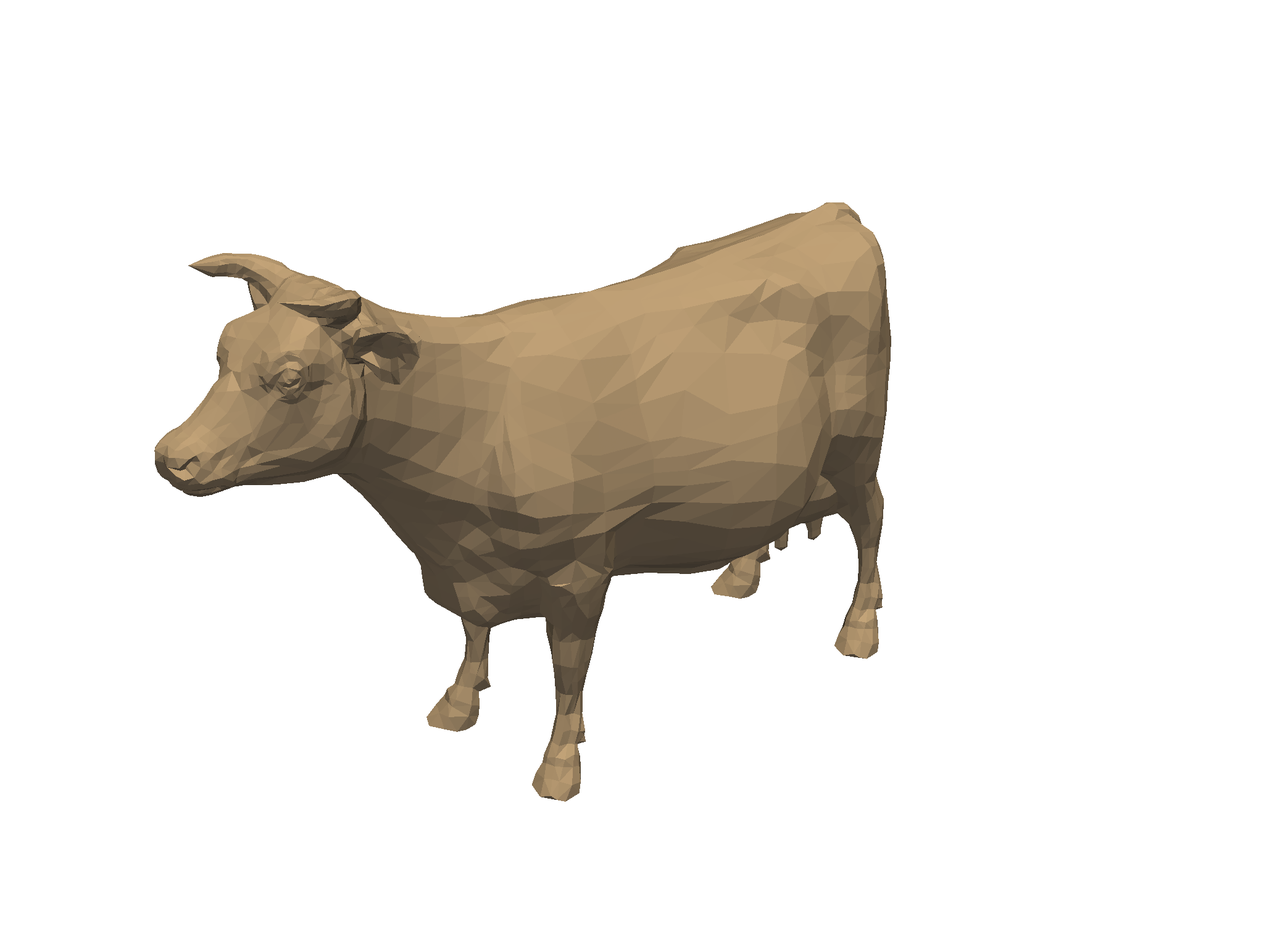
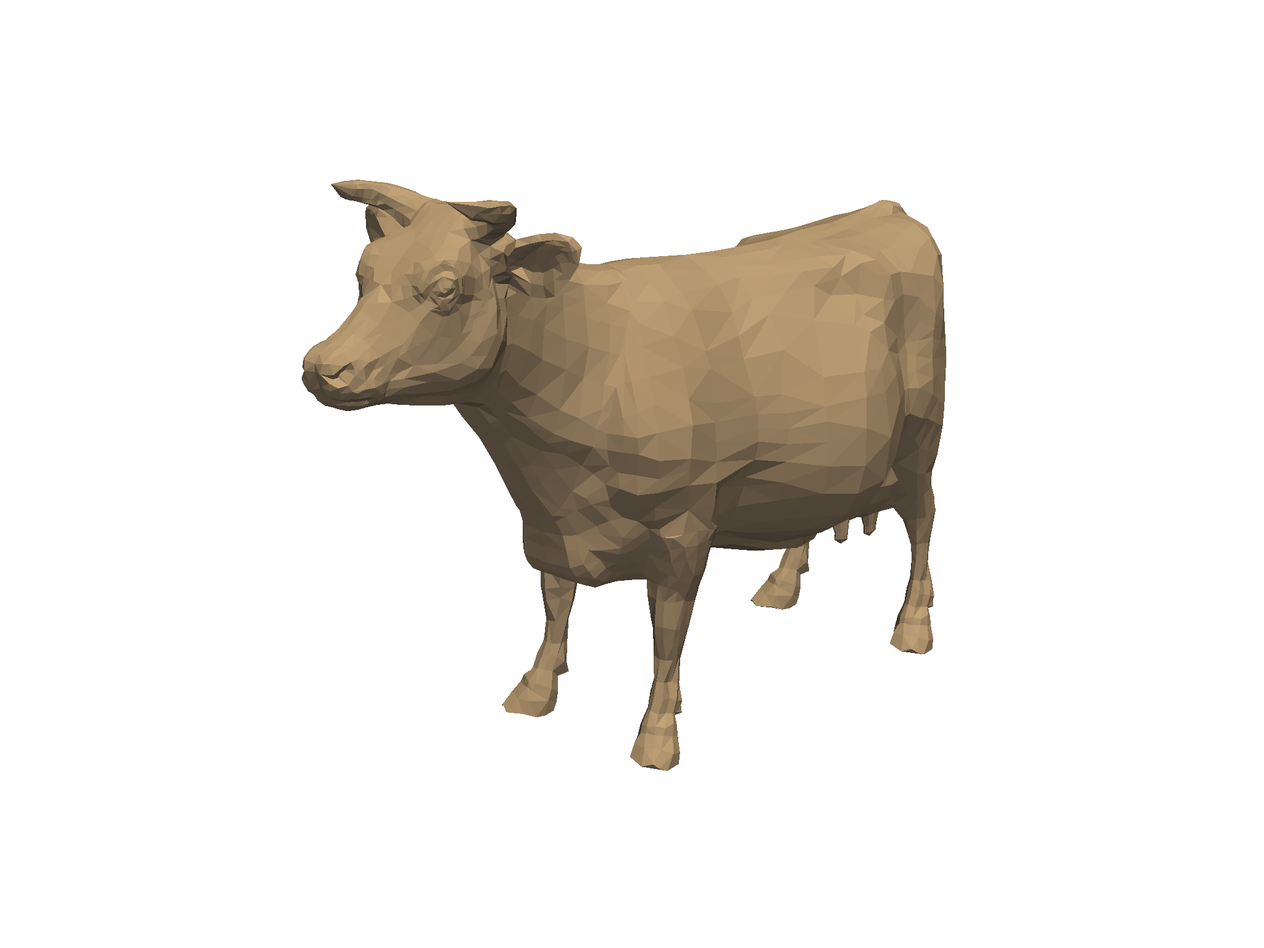
Update docs after building Travis build 61 of pyvista/tetgen
The docs were built from the branch 'master' against the commit
4739cd3a2432b03546410a680a1c71abc6f82733.

The Travis build that generated this commit is at
https://travis-ci.org/pyvista/tetgen/jobs/536984153.

The doctr command that was run is

    /home/travis/virtualenv/python3.6.7/bin/doctr deploy --built-docs ./docs/_build/html/ .

Changed region(s): [[0.125, 0.1875, 0.75, 0.8438]]

diff --git a/searchindex.js b/searchindex.js
@@ -1,1 +1,1 @@
-Search.setIndex({docnames:["api","examples/cow","examples/index","examples/sg_execution_times","examples/sphere","examples/super_toroid","index"],envversion:{"sphinx.domains.c":1,"sphinx.domains.changeset":1,"sphinx.domains.cpp":1,"sphinx.domains.javascript":1,"sphinx.domains.math":2,"sphinx.domains.python":1,"sphinx.domains.rst":1,"sphinx.domains.std":1,sphinx:56},filenames:["api.rst","examples/cow.rst","examples/index.rst","examples/sg_execution_times.rst","examples/sphere.rst","examples/super_toroid.rst","index.rst"],objects:{"tetgen.TetGen":{grid:[0,1,1,""],make_manifold:[0,2,1,""],mesh:[0,1,1,""],plot:[0,2,1,""],tetrahedralize:[0,2,1,""],write:[0,2,1,""]},tetgen:{TetGen:[0,0,1,""],pytetgen:[0,3,0,"-"]}},objnames:{"0":["py","class","Python class"],"1":["py","attribute","Python attribute"],"2":["py","method","Python method"],"3":["py","module","Python module"]},objtypes:{"0":"py:class","1":"py:attribute","2":"py:method","3":"py:module"},terms:{"10y":0,"class":0,"default":0,"final":0,"function":0,"import":[1,4,5,6],"int":0,"return":0,"super":[2,3],"switch":0,"true":[0,1,4,5,6],"try":[4,5],"while":0,For:6,The:[0,6],There:0,These:0,about:0,adapt:6,add_legend:[4,5,6],add_mesh:[1,4,5,6],added:0,addit:0,addsteiner_algo:0,advanc:[4,5,6],all:0,allow:0,along:6,alreadi:0,angl:0,ani:6,anim:1,ansi:0,apdl:0,appear:0,appli:0,archiv:0,arg:0,argument:0,arithmet:0,arrai:0,ascii:0,assign:0,attribut:0,avail:0,avoid:0,base:[0,6],behavior:0,belong:0,below:[4,5,6],between:0,binari:0,black:[4,5,6],bool:0,boundari:[0,6],brief:[0,6],brio_hilbert:0,brio_ratio:0,brio_threshold:0,bwr:[4,5,6],camera_posit:1,can:[0,6],caus:0,cdb:0,cdtrefin:0,cell:[4,5,6],cell_cent:[4,5,6],cell_ind:[4,5,6],cell_qual:[4,5,6],centroid:[4,5,6],chang:0,check:0,clean:0,click:[1,4,5],clone:6,close:[0,1],closer:0,cmap:[4,5,6],coarsen:0,coarsen_param:0,coarsen_perc:0,code:[0,1,4,5],color:1,com:6,combin:[0,6],complex:0,configur:0,conform:[0,6],consid:0,consist:0,consol:0,constrain:6,constraint:0,construct:1,contain:0,control:0,convex:0,coplanar:0,cow:[2,3],cow_grid:1,cow_mesh:1,cpo:1,creat:[0,6],creator:6,debug:0,deg:1,degre:0,delaunai:[0,6],delmaxfliplevel:0,demonstr:6,describ:0,descript:6,descritpion:0,desir:0,detail:[0,6],detect:0,diagnos:0,diagram:0,differ:0,dihedr:0,disabl:0,disk:0,displai:0,docheck:0,document:0,doe:0,domain:6,doubl:0,download:[1,4,5],download_cow:1,eas:6,edg:0,edgesout:0,either:0,ele:0,elem:0,element:[0,6],enabl:0,epsilon:0,error:0,exact:[0,6],exampl:[0,1,3,4,5],exceed:0,except:[0,4,5],execut:3,extens:0,extract:[4,5,6],extract_cel:[4,5,6],extract_selection_point:1,face:0,facesout:0,facet:0,facet_overlap_ang_tol:0,facet_separate_ang_tol:0,facet_small_ang_tol:0,fail:0,fals:0,faster:0,featur:6,file:[0,3],filenam:0,finit:6,first:0,fixedvolum:0,flip_scalar:[4,5,6],flipinsert:0,fliplinklevel:0,fliplinklevelinc:0,flipstars:0,focus:6,from:[0,1,6],full:[1,4,5],galleri:[1,2,4,5],gener:[0,1,2,4,5,6],get:[4,5,6],gif:1,git:6,github:6,good:6,greater:0,grid:[0,1,4,5,6],half:1,half_cow:1,hang:[0,6],has:0,hedral:0,help:0,here:[1,4,5],high:0,higher:0,hilbert_limit:0,hilbert_ord:0,how:6,http:6,hull:0,ignor:0,implement:[0,6],improv:0,incrflip:0,inform:[0,6],initi:0,input:[0,4,5,6],insertaddpoint:0,institut:6,instruct:0,integr:6,interfac:[0,6],interior:0,intersect:0,ipynb:[1,4,5],ipython:0,item:0,iter:0,januari:6,jettison:0,jupyt:[1,4,5],kwarg:0,larger:0,last:6,legaci:0,level:0,librari:0,light:[4,5,6],lightgrei:[4,5,6],like:0,linear:0,list:6,load:0,logical_or:1,look:6,lower:0,mai:0,make_manifold:[0,1],mandatori:0,mani:0,manifold:[0,6],manner:0,mask:[1,4,5,6],maximum:0,maxvolum:0,mean:[4,5,6],medit:0,meditview:0,merg:0,mesh:[0,1,4,5,6],method:6,metric:0,mindihedr:[0,4,5,6],minimum:0,minratio:[0,4,5,6],minut:[1,4,5],modifi:0,modul:[0,6],more:[0,6],much:0,must:0,narrow:0,ndarrai:0,necessari:0,neigh:0,neighbor:0,neighout:0,nframe:1,no_sort:0,nobisect:0,nobisect_nomerg:0,nobound:0,node:0,noelewritten:0,noexact:0,nofacewritten:0,noiterationnum:0,nojettison:0,nomergefacet:0,nomergevertex:0,nonodewritten:0,nonzero:[4,5,6],nostaticfilt:0,note:0,notebook:[1,4,5],number:0,numer:6,numpi:[1,4,5,6],nx3:0,object:0,obtain:6,off_screen:1,one:0,onli:0,opac:1,open_gif:1,optim:0,optimi:0,optin:0,option:0,optlevel:0,optmaxdihedr:0,optminslidih:0,optminsmtdih:0,optschem:0,order:[0,4,5,6],origin:[0,6],other:0,otherwis:0,output:0,over:0,overlap:0,overli:0,page:6,paramet:0,paraview:0,part:6,partit:6,pass:[4,5],piecewis:0,pip:6,place:0,plane:[4,5,6],plc:0,pleas:6,plot:[0,1,4,5,6],plotter:[1,4,5,6],point:[0,1,4,5,6],polydata:0,polyhedr:6,portabl:6,portion:6,pq1:0,preserv:0,primarili:6,print:0,program:[0,6],provid:6,psc:0,publish:6,pymeshfix:[0,1],pypi:6,python:[0,1,4,5,6],pyvista:[0,1,4,5,6],quadrad:0,qualiti:[0,4,5,6],quiet:0,radiu:0,rais:0,rang:1,rather:0,ratio:0,readabl:0,real:0,reason:0,reconstruct:0,reduc:0,refin:0,reflevel:0,region:0,regionattrib:0,regular:0,relationship:0,relev:6,remain:6,requir:0,reshap:[4,5,6],restrict:0,result:0,retain:0,reversetetori:0,rotate_i:1,run:[1,4,5],sacrif:0,same:0,scalar:[4,5,6],script:[1,4,5],second:[0,1,4,5],see:[0,6],select:0,self:0,set:0,set_background:6,shape:0,shellfaceperblock:0,should:0,show:[0,1],show_edg:1,shown:0,silli:1,size:0,softwar:6,some:0,sourc:[1,4,5,6],specifi:0,speed:[0,6],sphere:[2,3,6],sphinx:[1,2,4,5],sphinx_gallery_thumbnail_numb:[1,4,5],spin:1,standalon:0,start:0,steiner:0,steinerleft:0,stitl:[4,5,6],str:0,string:0,style:1,subgrid:[4,5,6],suitabl:6,super_toroid:[3,5],supertoroid:5,suppress:0,supsteiner_level:0,sure:0,surfac:[0,5,6],system:0,take:6,termin:0,tessel:[4,5,6],test:0,tet:[1,4,5,6],tetgen:[0,1,4,5],tetra:0,tetrahedr:[0,1,4,5,6],tetrahedra:0,tetrahedraperblock:0,tetrahedron:0,tetrehedr:0,text:0,than:0,thei:0,thi:[0,6],threshold:0,time:[1,4,5],todai:6,toler:0,toolkit:6,toroid:[2,3],total:[1,3,4,5],tri_filt:1,triangul:0,triangular:6,type:0,underli:0,unlimit:0,unreach:0,unstructur:0,unstructuredgrid:0,unus:0,updat:[0,1,6],use:0,used:0,user:[0,6],uses:0,using:0,valid:0,variou:6,varvolum:0,verbos:0,veri:0,vertex:0,vertexperblock:0,vertic:0,view:0,visual:6,volum:[0,6],voronoi:[0,6],voroout:0,vtk:[0,6],vtkview:0,vtu:0,weierstrass:6,weight:0,weighted_param:0,well:0,when:0,whether:0,which:0,window_s:1,wirefram:[1,4,5,6],wish:0,work:6,wrap:0,write:0,write_fram:1,writer:0,written:0,xml:0,your:0,zero:0,zeroindex:0},titles:["API Reference","Cow","Examples","Computation times","Sphere","Super Toroid","tetgen"],titleterms:{"super":5,acknowledg:6,api:0,basic:6,comput:3,cow:1,exampl:[2,6],instal:6,refer:0,sphere:4,tetgen:6,time:3,toroid:5}})
+Search.setIndex({docnames:["api","examples/cow","examples/index","examples/sg_execution_times","examples/sphere","examples/super_toroid","index"],envversion:{"sphinx.domains.c":1,"sphinx.domains.changeset":1,"sphinx.domains.cpp":1,"sphinx.domains.javascript":1,"sphinx.domains.math":2,"sphinx.domains.python":1,"sphinx.domains.rst":1,"sphinx.domains.std":1,sphinx:56},filenames:["api.rst","examples/cow.rst","examples/index.rst","examples/sg_execution_times.rst","examples/sphere.rst","examples/super_toroid.rst","index.rst"],objects:{"tetgen.TetGen":{grid:[0,1,1,""],make_manifold:[0,2,1,""],mesh:[0,1,1,""],plot:[0,2,1,""],tetrahedralize:[0,2,1,""],write:[0,2,1,""]},tetgen:{TetGen:[0,0,1,""],pytetgen:[0,3,0,"-"]}},objnames:{"0":["py","class","Python class"],"1":["py","attribute","Python attribute"],"2":["py","method","Python method"],"3":["py","module","Python module"]},objtypes:{"0":"py:class","1":"py:attribute","2":"py:method","3":"py:module"},terms:{"10y":0,"class":0,"default":0,"final":0,"function":0,"import":[1,4,5,6],"int":[0,1],"return":0,"super":[2,3],"switch":0,"true":[0,1,4,5,6],"try":[4,5],"while":0,For:6,The:[0,6],There:0,These:0,about:0,adapt:6,add_legend:[4,5,6],add_mesh:[1,4,5,6],added:0,addit:0,addsteiner_algo:0,advanc:[4,5,6],all:0,allow:0,along:6,alreadi:0,angl:0,ani:6,anim:1,ansi:0,apdl:0,appear:0,appli:0,archiv:0,arg:0,argument:0,arithmet:0,arrai:0,ascii:0,assign:0,attribut:0,avail:0,avoid:0,base:[0,6],behavior:0,belong:0,below:[4,5,6],between:0,binari:0,black:[4,5,6],bool:0,boundari:[0,6],brief:[0,6],brio_hilbert:0,brio_ratio:0,brio_threshold:0,build:1,bwr:[4,5,6],camera_posit:1,can:[0,6],caus:0,cdb:0,cdtrefin:0,cell:[4,5,6],cell_cent:[4,5,6],cell_ind:[4,5,6],cell_qual:[4,5,6],centroid:[4,5,6],chang:0,check:0,clean:0,click:[1,4,5],clone:6,close:[0,1],closer:0,cmap:[4,5,6],coarsen:0,coarsen_param:0,coarsen_perc:0,code:[0,1,4,5],color:1,com:6,combin:[0,6],complex:0,configur:0,conform:[0,6],consid:0,consist:0,consol:0,constrain:6,constraint:0,construct:1,contain:0,control:0,convex:0,coplanar:0,cow:[2,3],cow_grid:1,cow_mesh:1,cpo:1,creat:[0,6],creator:6,debug:0,degre:0,delaunai:[0,6],delmaxfliplevel:0,demonstr:6,describ:0,descript:6,descritpion:0,desir:0,detail:[0,6],detect:0,diagnos:0,diagram:0,differ:0,dihedr:0,disabl:0,disk:0,displai:0,docheck:0,document:0,doe:0,domain:6,doubl:0,download:[1,4,5],download_cow:1,dtype:1,eas:6,edg:0,edgesout:0,either:0,ele:0,elem:0,element:[0,6],enabl:0,epsilon:0,error:0,exact:[0,6],exampl:[0,1,3,4,5],exceed:0,except:[0,4,5],execut:3,extens:0,extract:[4,5,6],extract_cel:[1,4,5,6],extract_selection_point:1,face:0,facesout:0,facet:0,facet_overlap_ang_tol:0,facet_separate_ang_tol:0,facet_small_ang_tol:0,fail:0,fals:0,faster:0,featur:6,file:[0,3],filenam:0,finit:6,first:0,fixedvolum:0,flip_scalar:[4,5,6],flipinsert:0,fliplinklevel:0,fliplinklevelinc:0,flipstars:0,focus:6,from:[0,1,6],full:[1,4,5],galleri:[1,2,4,5],gener:[0,1,2,4,5,6],get:[4,5,6],gif:1,git:6,github:6,good:6,greater:0,grid:[0,1,4,5,6],half:1,half_cow:1,hang:[0,6],has:0,hedral:0,help:0,here:[1,4,5],high:0,higher:0,hilbert_limit:0,hilbert_ord:0,how:6,http:6,hull:0,ignor:0,implement:[0,6],improv:0,incrflip:0,inform:[0,6],initi:0,input:[0,4,5,6],insertaddpoint:0,institut:6,instruct:0,integr:6,interfac:[0,6],interior:0,intersect:0,ipynb:[1,4,5],ipython:0,item:0,iter:0,januari:6,jettison:0,jupyt:[1,4,5],kwarg:0,larger:0,last:6,legaci:0,level:0,librari:0,light:[4,5,6],lightgrei:[4,5,6],like:0,linear:0,linspac:1,list:6,load:0,logical_or:1,look:6,lower:0,mai:0,make:1,make_manifold:[0,1],mandatori:0,mani:0,manifold:[0,6],manner:0,mask:[1,4,5,6],maximum:0,maxvolum:0,mean:[4,5,6],medit:0,meditview:0,merg:0,mesh:[0,1,4,5,6],method:6,metric:0,mindihedr:[0,4,5,6],minimum:0,minratio:[0,4,5,6],minut:[1,4,5],modifi:0,modul:[0,6],more:[0,6],much:0,must:0,n_cell:1,name:1,narrow:0,ndarrai:0,necessari:0,neigh:0,neighbor:0,neighout:0,nframe:1,no_sort:0,nobisect:0,nobisect_nomerg:0,nobound:0,node:0,noelewritten:0,noexact:0,nofacewritten:0,noiterationnum:0,nojettison:0,nomergefacet:0,nomergevertex:0,nonodewritten:0,nonzero:[4,5,6],nostaticfilt:0,note:0,notebook:[1,4,5],number:0,numer:6,numpi:[1,4,5,6],nx3:0,object:0,obtain:6,off_screen:1,one:0,onli:0,opac:1,open_gif:1,optim:0,optimi:0,optin:0,option:0,optlevel:0,optmaxdihedr:0,optminslidih:0,optminsmtdih:0,optschem:0,order:[0,4,5,6],origin:[0,6],other:0,otherwis:0,output:0,over:0,overlap:0,overli:0,page:6,paramet:0,paraview:0,part:6,partit:6,pass:[4,5],piecewis:0,pip:6,place:0,plane:[4,5,6],plc:0,pleas:6,plot:[0,1,4,5,6],plotter:[1,4,5,6],point:[0,1,4,5,6],polydata:0,polyhedr:6,portabl:6,portion:6,pq1:0,preserv:0,primarili:6,print:0,program:[0,6],provid:6,psc:0,publish:6,pymeshfix:[0,1],pypi:6,python:[0,1,4,5,6],pyvista:[0,1,4,5,6],quadrad:0,qualiti:[0,4,5,6],quiet:0,radiu:0,rais:0,rang:1,rather:0,ratio:0,readabl:0,real:0,reason:0,reconstruct:0,reduc:0,refin:0,reflevel:0,region:0,regionattrib:0,regular:0,relationship:0,relev:6,remain:6,requir:0,reshap:[4,5,6],restrict:0,result:0,retain:0,reversetetori:0,run:[1,4,5],sacrif:0,same:0,scalar:[4,5,6],script:[1,4,5],second:[0,1,4,5],see:[0,6],select:0,self:0,set:0,set_background:6,shape:0,shellfaceperblock:0,should:0,show:[0,1],show_edg:1,shown:0,size:0,softwar:6,some:0,sourc:[1,4,5,6],specifi:0,speed:[0,6],sphere:[2,3,6],sphinx:[1,2,4,5],sphinx_gallery_thumbnail_numb:[1,4,5],standalon:0,start:0,steiner:0,steinerleft:0,stitl:[4,5,6],str:0,string:0,style:1,subgrid:[4,5,6],suitabl:6,super_toroid:[3,5],supertoroid:5,suppress:0,supsteiner_level:0,sure:0,surfac:[0,5,6],system:0,take:6,termin:0,tessel:[4,5,6],test:0,tet:[1,4,5,6],tetgen:[0,1,4,5],tetra:0,tetrahedr:[0,1,4,5,6],tetrahedra:0,tetrahedraperblock:0,tetrahedron:0,tetrehedr:0,text:0,than:0,thei:0,thi:[0,6],threshold:0,time:[1,4,5],todai:6,toler:0,toolkit:6,toroid:[2,3],total:[1,3,4,5],tri_filt:1,triangul:0,triangular:6,type:0,underli:0,unlimit:0,unreach:0,unstructur:0,unstructuredgrid:0,unus:0,updat:[0,1,6],use:0,used:0,user:[0,6],uses:0,using:0,valid:0,variou:6,varvolum:0,verbos:0,veri:0,vertex:0,vertexperblock:0,vertic:0,view:0,visual:6,volum:[0,6],voronoi:[0,6],voroout:0,vtk:[0,6],vtkview:0,vtu:0,weierstrass:6,weight:0,weighted_param:0,well:0,when:0,whether:0,which:0,window_s:1,wirefram:[1,4,5,6],wish:0,work:6,wrap:0,write:0,write_fram:1,writer:0,written:0,xml:0,your:0,zero:0,zeroindex:0},titles:["API Reference","Cow","Examples","Computation times","Sphere","Super Toroid","tetgen"],titleterms:{"super":5,acknowledg:6,api:0,basic:6,comput:3,cow:1,exampl:[2,6],instal:6,refer:0,sphere:4,tetgen:6,time:3,toroid:5}})

diff --git a/examples/cow.html b/examples/cow.html
@@ -221,6 +221,10 @@
  <span class="p">(</span><span class="mf">0.44</span><span class="p">,</span> <span class="o">-</span><span class="mf">0.4</span><span class="p">,</span> <span class="o">-</span><span class="mf">0.37</span><span class="p">),</span>
  <span class="p">(</span><span class="o">-</span><span class="mf">0.28</span><span class="p">,</span> <span class="mf">0.9</span><span class="p">,</span> <span class="mf">0.3</span><span class="p">)]</span>
 
+<span class="n">cpos</span><span class="o">=</span><span class="p">[(</span><span class="mf">15.87144235049248</span><span class="p">,</span> <span class="mf">4.879216382405231</span><span class="p">,</span> <span class="o">-</span><span class="mf">12.14248864876951</span><span class="p">),</span>
+ <span class="p">(</span><span class="mf">1.1623113035352375</span><span class="p">,</span> <span class="o">-</span><span class="mf">0.7609060338348953</span><span class="p">,</span> <span class="mf">0.3192320579894903</span><span class="p">),</span>
+ <span class="p">(</span><span class="o">-</span><span class="mf">0.19477922834083672</span><span class="p">,</span> <span class="mf">0.9593375398915212</span><span class="p">,</span> <span class="mf">0.20428542963665386</span><span class="p">)]</span>
+
 <span class="n">cow_mesh</span><span class="o">.</span><span class="n">plot</span><span class="p">(</span><span class="n">cpos</span><span class="o">=</span><span class="n">cpos</span><span class="p">)</span>
 </pre></div>
 </div>
@@ -245,25 +249,25 @@
 </pre></div>
 </div>
 <img alt="../_images/sphx_glr_cow_002.png" class="sphx-glr-single-img" src="../_images/sphx_glr_cow_002.png" />
-<p>Construct silly spinning cow animation</p>
-<div class="highlight-default notranslate"><div class="highlight"><pre><span></span><span class="n">plotter</span> <span class="o">=</span> <span class="n">pv</span><span class="o">.</span><span class="n">Plotter</span><span class="p">(</span><span class="n">off_screen</span><span class="o">=</span><span class="kc">True</span><span class="p">,</span> <span class="n">window_size</span><span class="o">=</span><span class="p">[</span><span class="mi">400</span><span class="p">,</span> <span class="mi">400</span><span class="p">])</span>
+<p>Make animation of the mesh construction</p>
+<div class="highlight-default notranslate"><div class="highlight"><pre><span></span><span class="n">plotter</span> <span class="o">=</span> <span class="n">pv</span><span class="o">.</span><span class="n">Plotter</span><span class="p">(</span><span class="n">off_screen</span><span class="o">=</span><span class="kc">True</span><span class="p">,</span> <span class="n">window_size</span><span class="o">=</span><span class="p">[</span><span class="mi">1000</span><span class="p">,</span> <span class="mi">1000</span><span class="p">])</span>
 <span class="n">plotter</span><span class="o">.</span><span class="n">open_gif</span><span class="p">(</span><span class="s1">&#39;cow.gif&#39;</span><span class="p">)</span>
-<span class="n">plotter</span><span class="o">.</span><span class="n">add_mesh</span><span class="p">(</span><span class="n">half_cow</span><span class="p">,</span> <span class="n">color</span><span class="o">=</span><span class="s1">&#39;w&#39;</span><span class="p">,</span> <span class="n">show_edges</span><span class="o">=</span><span class="kc">True</span><span class="p">)</span>
 <span class="n">plotter</span><span class="o">.</span><span class="n">add_mesh</span><span class="p">(</span><span class="n">cow_grid</span><span class="p">,</span> <span class="n">color</span><span class="o">=</span><span class="s1">&#39;r&#39;</span><span class="p">,</span> <span class="n">style</span><span class="o">=</span><span class="s1">&#39;wireframe&#39;</span><span class="p">,</span> <span class="n">opacity</span><span class="o">=</span><span class="mf">0.2</span><span class="p">)</span>
 <span class="n">plotter</span><span class="o">.</span><span class="n">camera_position</span> <span class="o">=</span> <span class="n">cpos</span>
 <span class="n">plotter</span><span class="o">.</span><span class="n">write_frame</span><span class="p">()</span>
 <span class="n">nframe</span> <span class="o">=</span> <span class="mi">36</span>
-<span class="n">deg</span> <span class="o">=</span> <span class="mf">360.</span><span class="o">/</span><span class="p">(</span><span class="n">nframe</span> <span class="o">+</span> <span class="mi">1</span><span class="p">)</span>
 <span class="k">for</span> <span class="n">i</span> <span class="ow">in</span> <span class="nb">range</span><span class="p">(</span><span class="n">nframe</span><span class="p">):</span>
-    <span class="n">half_cow</span><span class="o">.</span><span class="n">rotate_y</span><span class="p">(</span><span class="n">deg</span><span class="p">)</span>
-    <span class="n">cow_grid</span><span class="o">.</span><span class="n">rotate_y</span><span class="p">(</span><span class="n">deg</span><span class="p">)</span>
+    <span class="n">dn</span> <span class="o">=</span> <span class="n">cow_grid</span><span class="o">.</span><span class="n">n_cells</span> <span class="o">//</span> <span class="n">nframe</span> <span class="o">*</span> <span class="p">(</span><span class="n">i</span> <span class="o">+</span> <span class="mi">1</span><span class="p">)</span>
+    <span class="n">mask</span> <span class="o">=</span> <span class="n">np</span><span class="o">.</span><span class="n">linspace</span><span class="p">(</span><span class="mi">0</span><span class="p">,</span> <span class="n">dn</span><span class="p">,</span> <span class="n">dn</span><span class="p">,</span> <span class="n">dtype</span><span class="o">=</span><span class="nb">int</span><span class="p">)</span>
+    <span class="n">half_cow</span> <span class="o">=</span> <span class="n">cow_grid</span><span class="o">.</span><span class="n">extract_cells</span><span class="p">(</span><span class="n">mask</span><span class="p">)</span>
+    <span class="n">plotter</span><span class="o">.</span><span class="n">add_mesh</span><span class="p">(</span><span class="n">half_cow</span><span class="p">,</span> <span class="n">color</span><span class="o">=</span><span class="s1">&#39;w&#39;</span><span class="p">,</span> <span class="n">show_edges</span><span class="o">=</span><span class="kc">True</span><span class="p">,</span> <span class="n">name</span><span class="o">=</span><span class="s1">&#39;building&#39;</span><span class="p">)</span>
     <span class="n">plotter</span><span class="o">.</span><span class="n">update</span><span class="p">()</span>
     <span class="n">plotter</span><span class="o">.</span><span class="n">write_frame</span><span class="p">()</span>
 <span class="n">plotter</span><span class="o">.</span><span class="n">close</span><span class="p">()</span>
 </pre></div>
 </div>
 <img alt="../_images/sphx_glr_cow_003.png" class="sphx-glr-single-img" src="../_images/sphx_glr_cow_003.png" />
-<p class="sphx-glr-timing"><strong>Total running time of the script:</strong> ( 0 minutes  10.320 seconds)</p>
+<p class="sphx-glr-timing"><strong>Total running time of the script:</strong> ( 0 minutes  18.148 seconds)</p>
 <div class="sphx-glr-footer class sphx-glr-footer-example docutils container" id="sphx-glr-download-examples-cow-py">
 <div class="sphx-glr-download docutils container">
 <p><a class="reference download internal" download="" href="../_downloads/dfe0fc540378a0dc60004cbef7c55c93/cow.py"><code class="xref download docutils literal notranslate"><span class="pre">Download</span> <span class="pre">Python</span> <span class="pre">source</span> <span class="pre">code:</span> <span class="pre">cow.py</span></code></a></p>

diff --git a/examples/sg_execution_times.html b/examples/sg_execution_times.html
@@ -193,11 +193,11 @@
             
   <div class="section" id="computation-times">
 <span id="sphx-glr-examples-sg-execution-times"></span><h1>Computation times<a class="headerlink" href="#computation-times" title="Permalink to this headline">¶</a></h1>
-<p><strong>00:19.083</strong> total execution time for <strong>examples</strong> files:</p>
+<p><strong>00:26.985</strong> total execution time for <strong>examples</strong> files:</p>
 <ul class="simple">
-<li><p><strong>00:10.320</strong>: <a class="reference internal" href="cow.html#sphx-glr-examples-cow-py"><span class="std std-ref">Cow</span></a> (<code class="docutils literal notranslate"><span class="pre">cow.py</span></code>)</p></li>
-<li><p><strong>00:05.639</strong>: <a class="reference internal" href="super_toroid.html#sphx-glr-examples-super-toroid-py"><span class="std std-ref">Super Toroid</span></a> (<code class="docutils literal notranslate"><span class="pre">super_toroid.py</span></code>)</p></li>
-<li><p><strong>00:03.124</strong>: <a class="reference internal" href="sphere.html#sphx-glr-examples-sphere-py"><span class="std std-ref">Sphere</span></a> (<code class="docutils literal notranslate"><span class="pre">sphere.py</span></code>)</p></li>
+<li><p><strong>00:18.148</strong>: <a class="reference internal" href="cow.html#sphx-glr-examples-cow-py"><span class="std std-ref">Cow</span></a> (<code class="docutils literal notranslate"><span class="pre">cow.py</span></code>)</p></li>
+<li><p><strong>00:05.710</strong>: <a class="reference internal" href="super_toroid.html#sphx-glr-examples-super-toroid-py"><span class="std std-ref">Super Toroid</span></a> (<code class="docutils literal notranslate"><span class="pre">super_toroid.py</span></code>)</p></li>
+<li><p><strong>00:03.126</strong>: <a class="reference internal" href="sphere.html#sphx-glr-examples-sphere-py"><span class="std std-ref">Sphere</span></a> (<code class="docutils literal notranslate"><span class="pre">sphere.py</span></code>)</p></li>
 </ul>
 </div>
 

diff --git a/examples/super_toroid.html b/examples/super_toroid.html
@@ -250,7 +250,7 @@
 </pre></div>
 </div>
 <img alt="../_images/sphx_glr_super_toroid_003.png" class="sphx-glr-single-img" src="../_images/sphx_glr_super_toroid_003.png" />
-<p class="sphx-glr-timing"><strong>Total running time of the script:</strong> ( 0 minutes  5.639 seconds)</p>
+<p class="sphx-glr-timing"><strong>Total running time of the script:</strong> ( 0 minutes  5.710 seconds)</p>
 <div class="sphx-glr-footer class sphx-glr-footer-example docutils container" id="sphx-glr-download-examples-super-toroid-py">
 <div class="sphx-glr-download docutils container">
 <p><a class="reference download internal" download="" href="../_downloads/f2097db3e51d1384e33f84cfe30f876e/super_toroid.py"><code class="xref download docutils literal notranslate"><span class="pre">Download</span> <span class="pre">Python</span> <span class="pre">source</span> <span class="pre">code:</span> <span class="pre">super_toroid.py</span></code></a></p>

diff --git a/examples/sphere.html b/examples/sphere.html
@@ -250,7 +250,7 @@
 </pre></div>
 </div>
 <img alt="../_images/sphx_glr_sphere_003.png" class="sphx-glr-single-img" src="../_images/sphx_glr_sphere_003.png" />
-<p class="sphx-glr-timing"><strong>Total running time of the script:</strong> ( 0 minutes  3.124 seconds)</p>
+<p class="sphx-glr-timing"><strong>Total running time of the script:</strong> ( 0 minutes  3.126 seconds)</p>
 <div class="sphx-glr-footer class sphx-glr-footer-example docutils container" id="sphx-glr-download-examples-sphere-py">
 <div class="sphx-glr-download docutils container">
 <p><a class="reference download internal" download="" href="../_downloads/d3f2b02e15bf3a94566a256a80d2ac6a/sphere.py"><code class="xref download docutils literal notranslate"><span class="pre">Download</span> <span class="pre">Python</span> <span class="pre">source</span> <span class="pre">code:</span> <span class="pre">sphere.py</span></code></a></p>

diff --git a/_downloads/dfe0fc540378a0dc60004cbef7c55c93/cow.py b/_downloads/dfe0fc540378a0dc60004cbef7c55c93/cow.py
@@ -19,6 +19,10 @@ cpos = [(13., 7.6, -13.85),
  (0.44, -0.4, -0.37),
  (-0.28, 0.9, 0.3)]
 
+cpos=[(15.87144235049248, 4.879216382405231, -12.14248864876951),
+ (1.1623113035352375, -0.7609060338348953, 0.3192320579894903),
+ (-0.19477922834083672, 0.9593375398915212, 0.20428542963665386)]
+
 cow_mesh.plot(cpos=cpos)
 
 ###############################################################################
@@ -44,19 +48,19 @@ plotter.camera_position = cpos
 plotter.show()
 
 ###############################################################################
-# Construct silly spinning cow animation
+# Make animation of the mesh construction
 
-plotter = pv.Plotter(off_screen=True, window_size=[400, 400])
+plotter = pv.Plotter(off_screen=True, window_size=[1000, 1000])
 plotter.open_gif('cow.gif')
-plotter.add_mesh(half_cow, color='w', show_edges=True)
 plotter.add_mesh(cow_grid, color='r', style='wireframe', opacity=0.2)
 plotter.camera_position = cpos
 plotter.write_frame()
 nframe = 36
-deg = 360./(nframe + 1)
 for i in range(nframe):
-    half_cow.rotate_y(deg)
-    cow_grid.rotate_y(deg)
+    dn = cow_grid.n_cells // nframe * (i + 1)
+    mask = np.linspace(0, dn, dn, dtype=int)
+    half_cow = cow_grid.extract_cells(mask)
+    plotter.add_mesh(half_cow, color='w', show_edges=True, name='building')
     plotter.update()
     plotter.write_frame()
 plotter.close()
